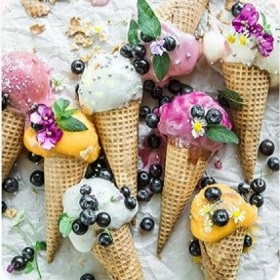
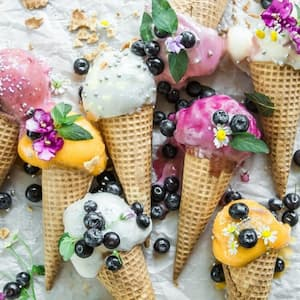
add new best pictures

diff --git a/src/partials/gallery.html b/src/partials/gallery.html
@@ -2,102 +2,122 @@
   <h2 class="visually-hidden">Gallery of Products</h2>
   <div class="container">
     <ul class="gallery__items">
-      <li class="galary__item galary__item--cell1">
+      <li class="gallery__item gallery__item--cell1">
         <img
           class="gallery__image"
-          srcset="../src/images/gallery/gallery1.jpg 1x"
-          srcset="../src/images/gallery/gallery1.jpg 2x"
-          srcset="../src/images/gallery/gallery1.jpg 3x"
-          src="../src/images/gallery/gallery2.jpg"
+          srcset="
+            ../src/images/gallery/gallery1.jpg    1x,
+            ../src/images/gallery/gallery1_2x.jpg 2x,
+            ../src/images/gallery/gallery1_3x.jpg 3x
+          "
+          src="../src/images/gallery/gallery1.jpg"
           alt="Фисташковое мороженое"
         />
       </li>
-      <li class="galary__item galary__item--cell2">
+      <li class="gallery__item gallery__item--cell2">
         <img
           class="gallery__image"
-          srcset="../src/images/gallery/gallery2.jpg 1x"
-          srcset="../src/images/gallery/gallery2.jpg 2x"
-          srcset="../src/images/gallery/gallery2.jpg 3x"
+          srcset="
+            ../src/images/gallery/gallery2.jpg    1x,
+            ../src/images/gallery/gallery2_2x.jpg 2x,
+            ../src/images/gallery/gallery2_3x.jpg 3x
+          "
           src="../src/images/gallery/gallery2.jpg"
           alt="Клубничное мороженое в рожке"
         />
       </li>
-      <li class="galary__item galary__item--cell3">
+      <li class="gallery__item gallery__item--cell3">
         <img
           class="gallery__image"
-          srcset="../src/images/gallery/gallery3.jpg 1x"
-          srcset="../src/images/gallery/gallery3.jpg 2x"
-          srcset="../src/images/gallery/gallery3.jpg 3x"
+          srcset="
+            ../src/images/gallery/gallery3.jpg    1x,
+            ../src/images/gallery/gallery3_2x.jpg 2x,
+            ../src/images/gallery/gallery3_3x.jpg 3x
+          "
           src="../src/images/gallery/gallery3.jpg"
           alt="Фруктовое мороженое на палочке"
         />
       </li>
-      <li class="galary__item galary__item--cell4">
+      <li class="gallery__item gallery__item--cell4">
         <img
           class="gallery__image"
-          srcset="../src/images/gallery/gallery4.jpg 1x"
-          srcset="../src/images/gallery/gallery4.jpg 2x"
-          srcset="../src/images/gallery/gallery4.jpg 3x"
+          srcset="
+            ../src/images/gallery/gallery4.jpg    1x,
+            ../src/images/gallery/gallery4_2x.jpg 2x,
+            ../src/images/gallery/gallery4_3x.jpg 3x
+          "
           src="../src/images/gallery/gallery4.jpg"
           alt="асорти из мороженого в рожке"
         />
       </li>
-      <li class="galary__item galary__item--cell5">
+      <li class="gallery__item gallery__item--cell5">
         <img
           class="gallery__image"
-          srcset="../src/images/gallery/gallery5.jpg 1x"
-          srcset="../src/images/gallery/gallery5.jpg 2x"
-          srcset="../src/images/gallery/gallery5.jpg 3x"
+          srcset="
+            ../src/images/gallery/gallery5.jpg    1x,
+            ../src/images/gallery/gallery5_2x.jpg 2x,
+            ../src/images/gallery/gallery5_3x.jpg 3x
+          "
           src="../src/images/gallery/gallery5.jpg"
           alt="Девушка ест мороженое"
         />
       </li>
-      <li class="galary__item galary__item--cell6">
+      <li class="gallery__item gallery__item--cell6">
         <img
           class="gallery__image"
-          srcset="../src/images/gallery/gallery6.jpg 1x"
-          srcset="../src/images/gallery/gallery6.jpg 2x"
-          srcset="../src/images/gallery/gallery6.jpg 3x"
+          srcset="
+            ../src/images/gallery/gallery6.jpg    1x,
+            ../src/images/gallery/gallery6_2x.jpg 2x,
+            ../src/images/gallery/gallery6_3x.jpg 3x
+          "
           src="../src/images/gallery/gallery6.jpg"
           alt="Мороженое с фруктами в креманке"
         />
       </li>
-      <li class="galary__item galary__item--cell7">
+      <li class="gallery__item gallery__item--cell7">
         <img
           class="gallery__image"
-          srcset="../src/images/gallery/gallery7.jpg 1x"
-          srcset="../src/images/gallery/gallery7.jpg 2x"
-          srcset="../src/images/gallery/gallery7.jpg 3x"
+          srcset="
+            ../src/images/gallery/gallery7.jpg    1x,
+            ../src/images/gallery/gallery7_2x.jpg 2x,
+            ../src/images/gallery/gallery7_3x.jpg 3x
+          "
           src="../src/images/gallery/gallery7.jpg"
           alt="Рожок с мороженым"
         />
       </li>
-      <li class="galary__item galary__item--cell8">
+      <li class="gallery__item gallery__item--cell8">
         <img
           class="gallery__image"
-          srcset="../src/images/gallery/gallery8.jpg 1x"
-          srcset="../src/images/gallery/gallery8.jpg 2x"
-          srcset="../src/images/gallery/gallery8.jpg 3x"
+          srcset="
+            ../src/images/gallery/gallery8.jpg    1x,
+            ../src/images/gallery/gallery8_2x.jpg 2x,
+            ../src/images/gallery/gallery8_3x.jpg 3x
+          "
           src="../src/images/gallery/gallery8.jpg"
           alt="Собака ест мороженое"
         />
       </li>
-      <li class="galary__item galary__item--cell9">
+      <li class="gallery__item gallery__item--cell9">
         <img
           class="gallery__image"
-          srcset="../src/images/gallery/gallery9.jpg 1x"
-          srcset="../src/images/gallery/gallery9.jpg 2x"
-          srcset="../src/images/gallery/gallery9.jpg 3x"
+          srcset="
+            ../src/images/gallery/gallery9.jpg    1x,
+            ../src/images/gallery/gallery9_2x.jpg 2x,
+            ../src/images/gallery/gallery9_3x.jpg 3x
+          "
           src="../src/images/gallery/gallery9.jpg"
           alt="Коктейль молочный с мороженым"
         />
       </li>
-      <li class="galary__item galary__item--cell10">
+      <li class="gallery__item gallery__item--cell10">
         <img
           class="gallery__image"
-          srcset="../src/images/gallery/gallery10.jpg 1x"
-          srcset="../src/images/gallery/gallery10.jpg 2x"
-          srcset="../src/images/gallery/gallery10.jpg 3x"
+          srcset="
+            ../src/images/gallery/gallery10.jpg    1x,
+            ../src/images/gallery/gallery10_2x.jpg 2x,
+            ../src/images/gallery/gallery10_3x.jpg 3x
+          "
           src="../src/images/gallery/gallery10.jpg"
           alt="пироженко с мороженым"
         />

diff --git a/src/sass/_gallery.scss b/src/sass/_gallery.scss
@@ -2,6 +2,10 @@
   background-image: linear-gradient(to bottom, $second-bg-color, $main-bg-color);
   min-width: 280px;
   min-height: 122px;
+  padding-bottom: 80px;
+  @media screen and (min-width: 768px) {
+    padding-bottom: 121px;
+  }
 }
 
 .gallery__items {
@@ -14,16 +18,17 @@
   row-gap: 3px;
   column-gap: 3px;
 }
-.galary__item {
+.gallery__item {
   display: block;
   width: 100%;
-  border-radius: 5px;
+  border-radius: 10px;
   overflow: hidden;
   transform: scale(1);
-  transition: transform 500ms linear;
+  transition: transform 700ms linear;
   z-index: 1;
   &:hover {
     transform: scale(1.25);
+    box-shadow: 0 0 20px rgba(0, 0, 0, 0.8);
     z-index: 2;
   }
 
